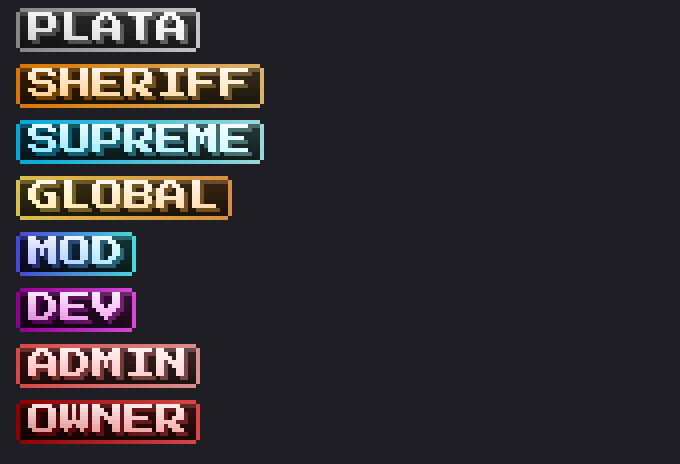
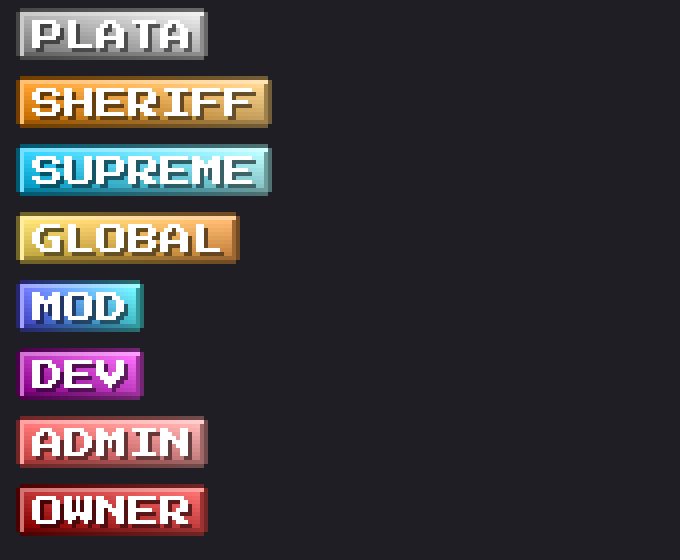
Pack: tags de rango en estilo insignia solida

Changed region(s): [[0.0, 0.0, 0.4015, 0.9655]]

diff --git a/fuente/rangos.py b/fuente/rangos.py
@@ -39,45 +39,37 @@ def claro(c, f):
 
 
 def dibujar(texto, c1, c2):
+    """Bloque solido con bisel y degradé vertical, letras blancas con sombra (estilo insignia de servidor)."""
     fnt = ImageFont.truetype(FUENTE, 8)
-    n = len(texto)
-    w = n * 8 + 6          # texto 8px por letra + 3px a cada lado (incluye borde)
-    h = 11                 # borde + 1 + 7 de letra + 1 + borde
-    im = Image.new('RGBA', (w, h), (0, 0, 0, 0))
-    px = im.load()
+    w = len(texto) * 8 + 8
+    H = 13
     a, b = hexc(c1), hexc(c2)
-    for x in range(w):
-        t = x / max(1, w - 1)
-        col = mezcla(a, b, t)
-        for y in range(h):
-            borde = x in (0, w - 1) or y in (0, h - 1)
-            esquina = (x in (0, w - 1)) and (y in (0, h - 1))
-            if esquina:
-                continue
-            if borde:
-                px[x, y] = oscuro(col, 0.85) + (255,)
-            else:
-                # fondo oscuro con un poco del color, mas claro arriba
-                px[x, y] = mezcla(oscuro(col, 0.22), oscuro(col, 0.12), (y - 1) / (h - 3)) + (255,)
-    # brillo sutil en el borde superior
-    for x in range(1, w - 1):
-        px[x, 1] = mezcla(px[x, 1][:3], claro(mezcla(a, b, x / (w - 1)), 0.2), 0.25) + (255,)
-    # texto: mascara 1-bit y degradado vertical claro->color
-    mask = Image.new('1', (w, h), 0)
-    d = ImageDraw.Draw(mask)
+    im = Image.new('RGBA', (w, H), (0, 0, 0, 0))
+    px = im.load()
+    m = Image.new('1', (w, H), 0)
+    d = ImageDraw.Draw(m)
     d.fontmode = '1'
-    d.text((3, 1), texto, font=fnt, fill=1)
-    mp = mask.load()
-    # sombra de 1px abajo a la derecha
-    for y in range(h):
-        for x in range(w):
-            if mp[x, y] and x + 1 < w - 1 and y + 1 < h - 1 and not mp[x + 1, y + 1]:
-                px[x + 1, y + 1] = oscuro(mezcla(a, b, x / (w - 1)), 0.45) + (255,)
-    for y in range(h):
+    d.text((4, 3), texto, font=fnt, fill=1)
+    mp = m.load()
+    for x in range(w):
+        col = mezcla(a, b, x / (w - 1))
+        for y in range(H):
+            if x in (0, w - 1) and y in (0, H - 1):
+                continue
+            if x in (0, w - 1) or y in (0, H - 1):
+                px[x, y] = oscuro(col, 0.45) + (255,)
+            elif x in (1, w - 2) or y in (1, H - 2):
+                px[x, y] = (claro(col, 0.45) if (y == 1 or x == 1) else oscuro(col, 0.62)) + (255,)
+            else:
+                px[x, y] = mezcla(claro(col, 0.18), oscuro(col, 0.78), (y - 2) / (H - 5)) + (255,)
+    for y in range(H - 1):
+        for x in range(w - 1):
+            if mp[x, y] and not mp[x + 1, y + 1]:
+                px[x + 1, y + 1] = oscuro(mezcla(a, b, x / (w - 1)), 0.4) + (255,)
+    for y in range(H):
         for x in range(w):
             if mp[x, y]:
-                base = mezcla(a, b, x / (w - 1))
-                px[x, y] = claro(base, 0.88 - 0.30 * (y - 1) / 6) + (255,)
+                px[x, y] = (255, 255, 255, 255)
     return im
 
 
@@ -91,15 +83,15 @@ def png(im, escala):
 proveedores = []
 archivos = {}
 mapa = {}
-vista = Image.new('RGBA', (170, 14 * len(RANGOS) + 4), (30, 30, 36, 255))
+vista = Image.new('RGBA', (170, 17 * len(RANGOS) + 4), (30, 30, 36, 255))
 for i, (rid, txt, c1, c2) in enumerate(RANGOS):
     ch = chr(BASE_CHAR + i)
     im = dibujar(txt, c1, c2)
     datos, _ = png(im, 2)  # imagen al doble para que se vea nitido, el font la baja con height
     archivos['assets/3y33/textures/font/rango_%s.png' % rid] = datos
-    proveedores.append({"type": "bitmap", "file": "3y33:font/rango_%s.png" % rid, "height": 11, "ascent": 9, "chars": [ch]})
+    proveedores.append({"type": "bitmap", "file": "3y33:font/rango_%s.png" % rid, "height": 13, "ascent": 10, "chars": [ch]})
     mapa[rid] = {"char": ch, "texto": txt, "c1": c1, "c2": c2}
-    vista.paste(im, (4, 2 + i * 14), im)
+    vista.paste(im, (4, 2 + i * 17), im)
 vista.resize((vista.width * 4, vista.height * 4), Image.NEAREST).save(os.path.join(BASE, 'rangos_preview.png'))
 
 viejo = zipfile.ZipFile(ZIP)
